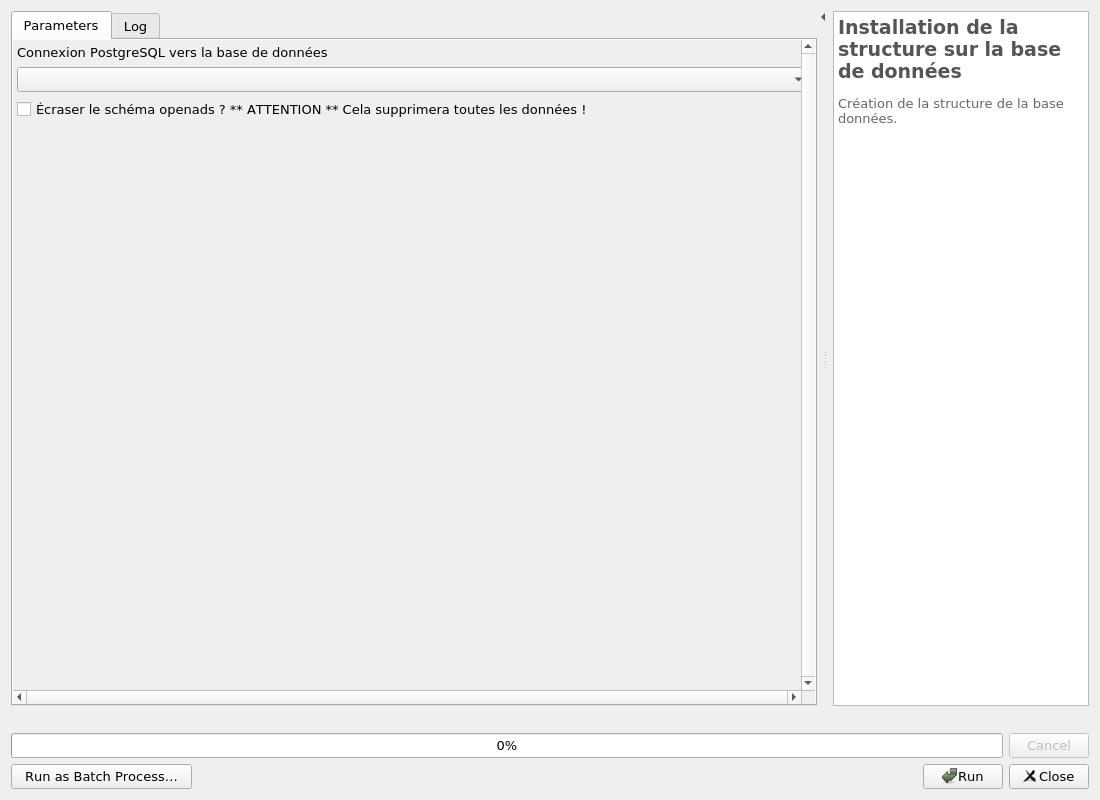
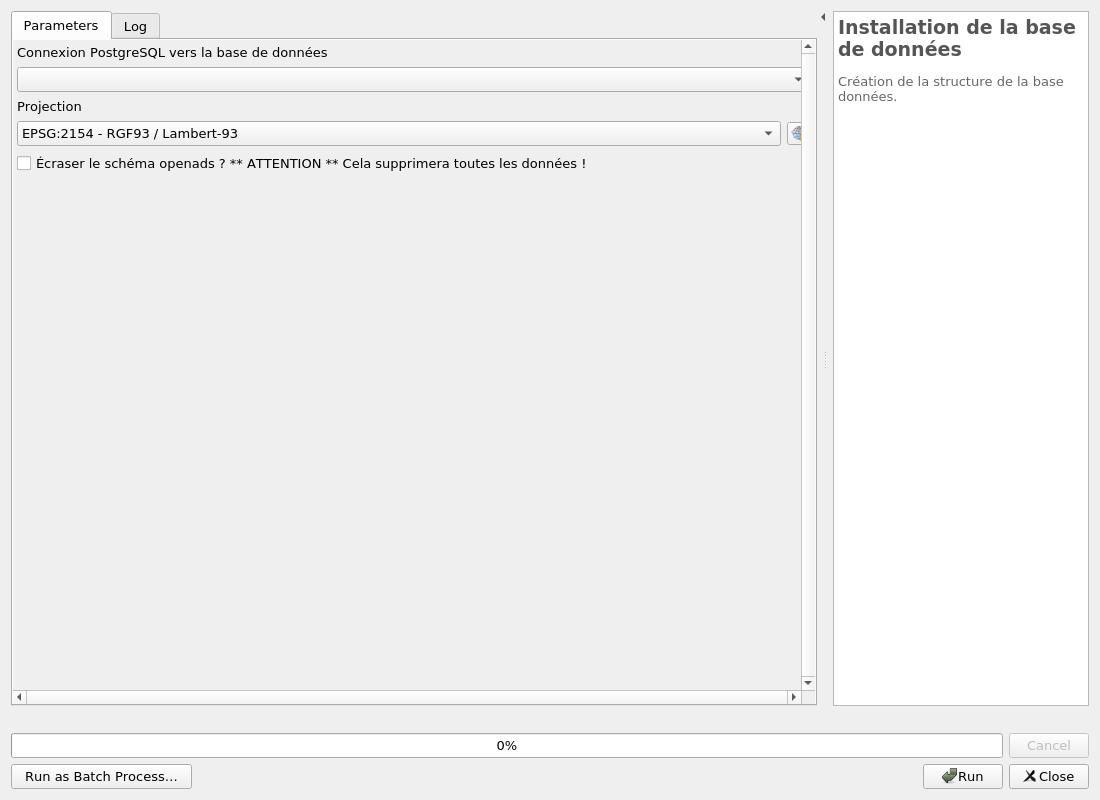
Ugrade processing documentation

Changed region(s): [[0.0, 0.125, 0.5255, 0.2188], [0.7418, 0.0312, 0.9891, 0.1562], [0.7109, 0.1562, 0.7418, 0.1875]]

diff --git a/docs/processing/README.md b/docs/processing/README.md
@@ -8,7 +8,7 @@ hide:
 ## Base de données
 
 
-### Installation de la structure sur la base de données
+### Installation de la base de données
 
 Création de la structure de la base données.
 
@@ -19,6 +19,7 @@ Création de la structure de la base données.
 | ID | Description | Type | Info | Required | Advanced | Option |
 |:-:|:-:|:-:|:-:|:-:|:-:|:-:|
 CONNECTION_NAME|Connexion PostgreSQL vers la base de données|ProviderConnection|Nom de la connexion dans QGIS pour se connecter à la base de données|✓|||
+CRS|Projection|Crs||✓||Default: EPSG:2154 <br> |
 OVERRIDE|Écraser le schéma openads ? ** ATTENTION ** Cela supprimera toutes les données !|Boolean||✓|||
 
 
@@ -35,7 +36,7 @@ DATABASE_VERSION|Version de la base de données|String||
 ## Import des données
 
 
-### Mise en place des données sur les communes
+### Import des communes
 
 Ajout des données pour la table communes
 
@@ -63,7 +64,37 @@ OUTPUT MSG|Message de sortie|String||
 ***
 
 
-### Mise en place des données sur les parcelles
+### Import des contraintes
+
+Ajout des données pour les tables des contraintes
+
+![algo_id](./openads-data_constraints.jpg)
+
+#### Parameters
+
+| ID | Description | Type | Info | Required | Advanced | Option |
+|:-:|:-:|:-:|:-:|:-:|:-:|:-:|
+ENTREE|Couche en entrée pour les contraintes|FeatureSource|Couche vecteur qu'il faut importer dans la base de données|✓|||
+CHAMP_ETIQUETTE|Champ des étiquettes|Field|Champ des étiquettes pour la contrainte|✓|||
+CHAMP_TEXTE|Champ texte|Field|Champ texte pour la contrainte|✓|||
+VALEUR_GROUPE|Valeur pour le groupe|String|Zonage, Contraintes, Servitudes, Droit de Préemption, Lotissement, ou tout autre valeur libre|✓|||
+VALEUR_SOUS_GROUPE|Valeur pour le sous-groupe|String|Valeur libre||||
+CONNECTION_NAME|Connexion PostgreSQL vers la base de données|ProviderConnection|Base de données de destination|✓|||
+SCHEMA_OPENADS|Schéma openADS|DatabaseSchema|Nom du schéma des données openADS|✓||Default: openads <br> |
+
+
+#### Outputs
+
+| ID | Description | Type | Info |
+|:-:|:-:|:-:|:-:|
+COUNT_FEATURES|Nombre d'entités importés|Number||
+COUNT_NEW_CONSTRAINTS|Nombre de nouvelles contraintes|Number||
+
+
+***
+
+
+### Import des parcelles
 
 Ajout des données pour la table parcelles
 
@@ -78,6 +109,31 @@ SCHEMA_CADASTRE|Schéma Cadastre|DatabaseSchema|Nom du schéma des données cada
 SCHEMA_OPENADS|Schéma openADS|DatabaseSchema|Nom du schéma des données openADS|✓||Default: openads <br> |
 TRUNCATE_PARCELLES|Mise à jour de la table parcelles|Boolean||✓|||
 IMPORT_PROJECT_LAYER|Importer la couche dans le projet|Boolean||✓|||
+
+
+#### Outputs
+
+| ID | Description | Type | Info |
+|:-:|:-:|:-:|:-:|
+OUTPUT|Couches de sortie|MultipleLayers||
+OUTPUT MSG|Message de sortie|String||
+
+
+***
+
+
+### Chargement des couches depuis la base
+
+Charger toutes les couches de la base de données.
+
+![algo_id](./openads-load_layers.jpg)
+
+#### Parameters
+
+| ID | Description | Type | Info | Required | Advanced | Option |
+|:-:|:-:|:-:|:-:|:-:|:-:|:-:|
+CONNECTION_NAME|Connexion PostgreSQL vers la base de données|ProviderConnection|Base de données de destination|✓|||
+SCHEMA|Schéma|DatabaseSchema|Nom du schéma des données openads|✓||Default: openads <br> |
 
 
 #### Outputs
